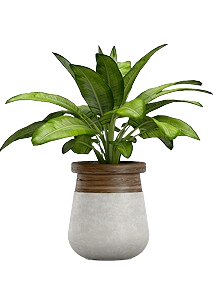
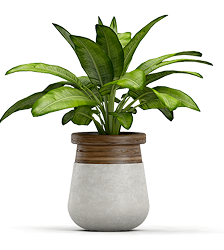
hw8_ver3

diff --git a/style.css b/style.css
@@ -106,7 +106,7 @@ flex-direction: column;
 justify-content: center;
 align-items: flex-start;
 gap: 7px;
-width: 49%;
+width: 50%;
 }
 
 .text{
@@ -155,19 +155,28 @@ padding: 9px 26px;
 margin-top: 37px;
 }
 
-.vase{
+/* .vase{
 width: 40%;
 position: relative;
 }
 
-/* .big_vase{
-/* position: relative;
-} */
-
 .small_vase{
-position:absolute;
+position: absolute;
 bottom: 6%;
 right: 61%;
+ } */ /*2 варіант через position*/
+
+.vase{
+min-height: 450px;
+min-width: 507px;
+height: 100%;
+width: 38%;
+background: url("./images/1.png"),
+            url("./images/2.png");
+background-repeat: no-repeat;
+background-repeat: no-repeat;
+background-position: 100% 50%;
+background-position: 15% 93%;
 }
 
 .float_categories{
@@ -180,16 +189,19 @@ margin-bottom: 82px;
 .left_menu{
 display: flex;
 flex-direction: column;
-background-color: #FBFBFB;
-padding: 14px 18px;
 justify-content: space-between;
 align-items: flex-start;
 height: 100%;
 } 
 
+.float_section{
+background-color: #FBFBFB;
+padding: 14px 175px 0 18px;
+}
+
 .categories{
-padding: 0 12px;
-margin-bottom: 377px;  
+padding: 7px 12px;
+margin-bottom: 363px;  
 }
 
 .list-category{
@@ -206,7 +218,6 @@ font-family: "CeraProBold", sans-serif;
 font-size: 18px;
 font-weight: 700;
 line-height: 16px; 
-margin-bottom: 7px;
 }
 
 .active_text{
@@ -221,20 +232,17 @@ line-height: 40px;
 width: 310px;
 }
 
-.right-menu{
-flex: 1;
-} 
-
 .category-header{
 display: flex;
 justify-content: space-between;
-align-items: flex-end;
-margin-bottom: 38px;
+align-items: flex-start;
+margin-bottom: 30px;
 }
 
 .tabs ul{
 display: flex;
-align-items: start;
+align-items: center;
+justify-content: center;
 gap: 40px;
 }
 
@@ -259,7 +267,8 @@ border-color: #46A358;
 
 .sorting{
 display: flex;
-align-items: start;
+align-items: center;
+justify-content: center;
 gap: 8px;
 }
 
@@ -274,7 +283,8 @@ line-height: 16px;
 .catalog_grid{
 display: flex;
 flex-flow: row wrap;
-align-content: stretch;
+align-content: center;
+justify-content: space-between;
 margin-top: 38px;
 gap: 70px 51px ;
 background-color: transparent; 

diff --git a/index.html b/index.html
@@ -55,29 +55,33 @@
       <!-- <div class="vase">
         <img src="./images/Frame 1.png" alt="photo_vases">
       </div> -->
-      <div class="vase">
+
+      <!-- <div class="vase">
         <img class="big_vase" src="./images/1.png" alt="big_vase">
         <img class="small_vase" src="./images/2.png" alt="small_vase">
-      </div>
+      </div> -->
+      <div class="vase"></div>
     </main>
     <div class="float_categories">
       <div class="left_menu">
-        <h4>Categories</h4>
-        <nav >
-          <ul class="categories">
-          <li class="active_text">House Plants</li>
-          <li class="list-category">Potter Plants</li>
-          <li class="list-category">Seeds</li>
-          <li class="list-category">Small Plants</li>
-          <li class="list-category">Big Plants</li>
-          <li class="list-category">Succulents</li>
-          <li class="list-category">Trerrariums</li>
-          <li class="list-category">Gardening</li>
-          <li class="list-category">Accessories</li>
-          </ul>
-        </nav> 
+        <div class="float_section">
+          <h4>Categories</h4>
+          <nav>
+            <ul class="categories">
+              <li class="active_text">House Plants</li>
+              <li class="list-category">Potter Plants</li>
+              <li class="list-category">Seeds</li>
+              <li class="list-category">Small Plants</li>
+              <li class="list-category">Big Plants</li>
+              <li class="list-category">Succulents</li>
+              <li class="list-category">Trerrariums</li>
+              <li class="list-category">Gardening</li>
+              <li class="list-category">Accessories</li>
+            </ul>
+          </nav> 
+        </div>
         <div class="img_sale">
-          <img src="./images/float/Super Sale Banner_Crop.png" alt="sale_banner">
+          <img src="./images/float/sale.png" alt="sale_banner">
         </div>
       </div>
       <div class="right-menu">
